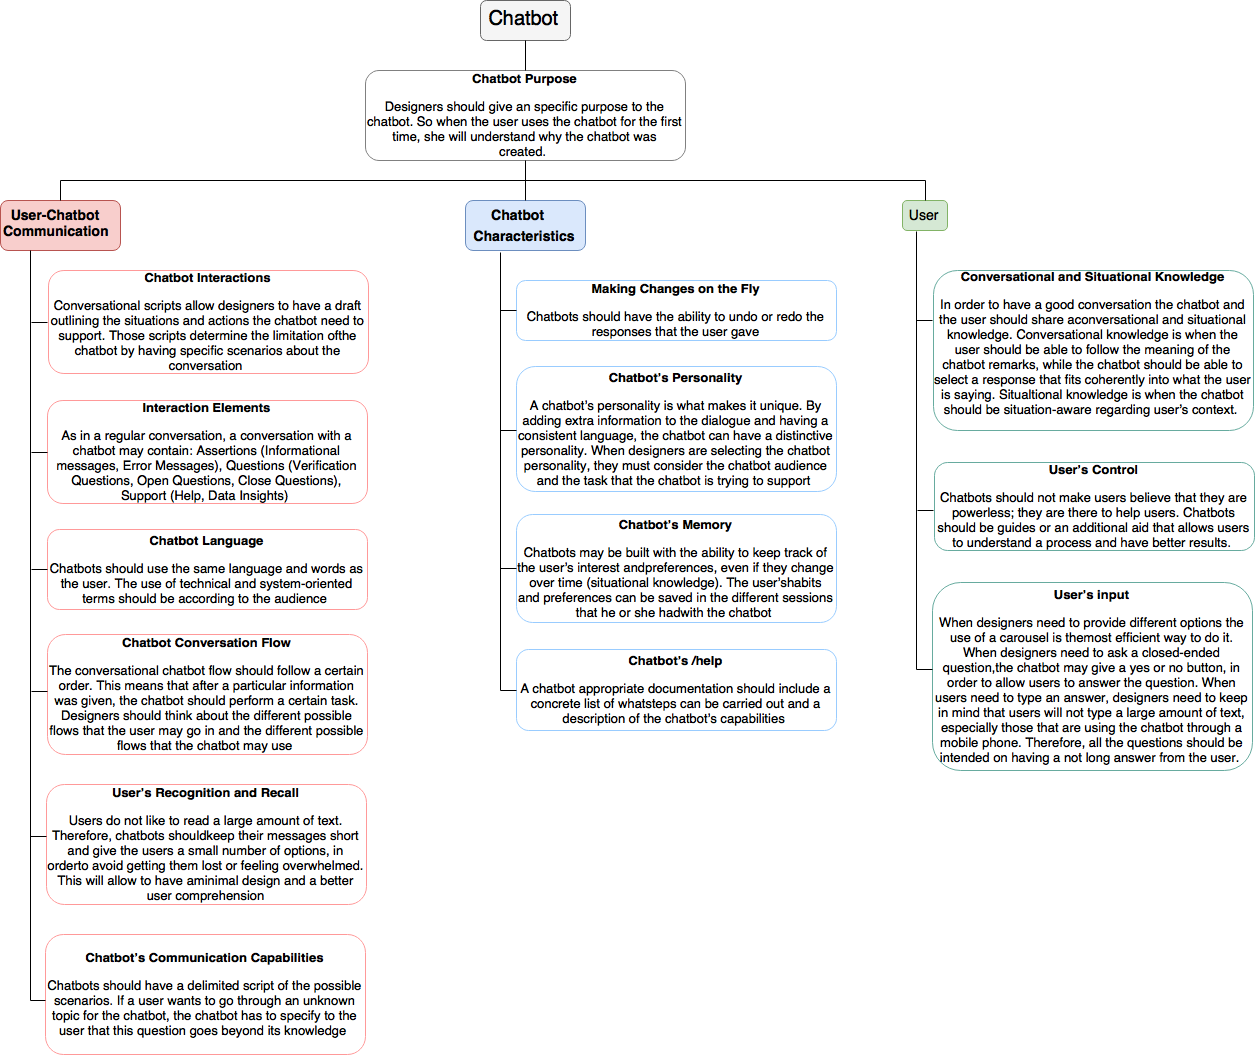
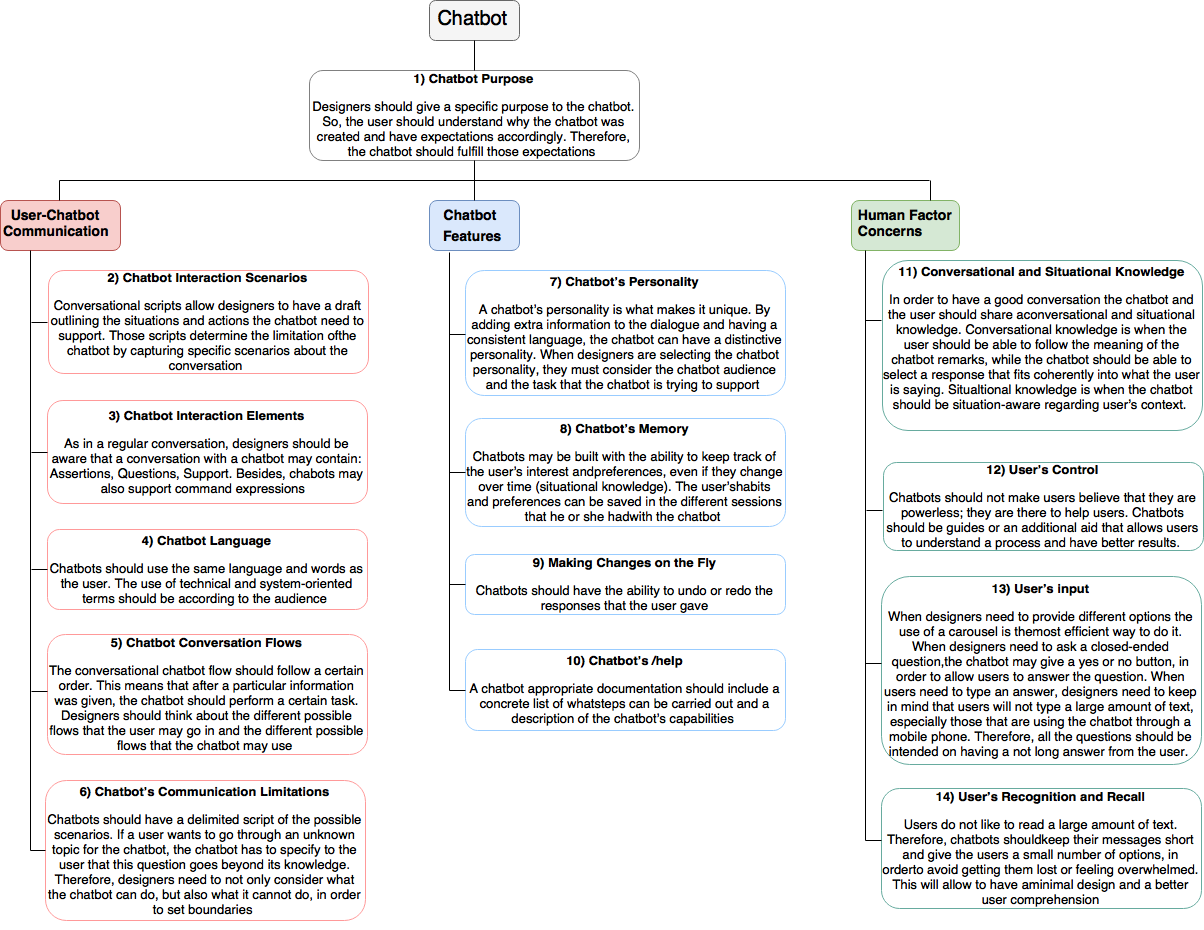
Best Practices Diagram updated

Changed region(s): [[0.0, 0.1871, 0.3073, 1.0], [0.7068, 0.1871, 1.0, 0.9978], [0.2458, 0.0, 0.6761, 0.7796]]

diff --git a/README.md b/README.md
@@ -4,4 +4,4 @@
 
 This repository contains all the scripts, applications, and documents related to the Visual Analitic Chatbot Design.
 
-[PDF - Towards best practices for a visualization chatbot](https://github.com/TaniaFerman/ChatbotDesign/blob/master/ChatbotGuidelines/DesignPrinciples.pdf)
+[PDF - Towards best practices for a chatbot](https://github.com/TaniaFerman/ChatbotDesign/blob/master/ChatbotGuidelines/DesignPrinciples.pdf)
